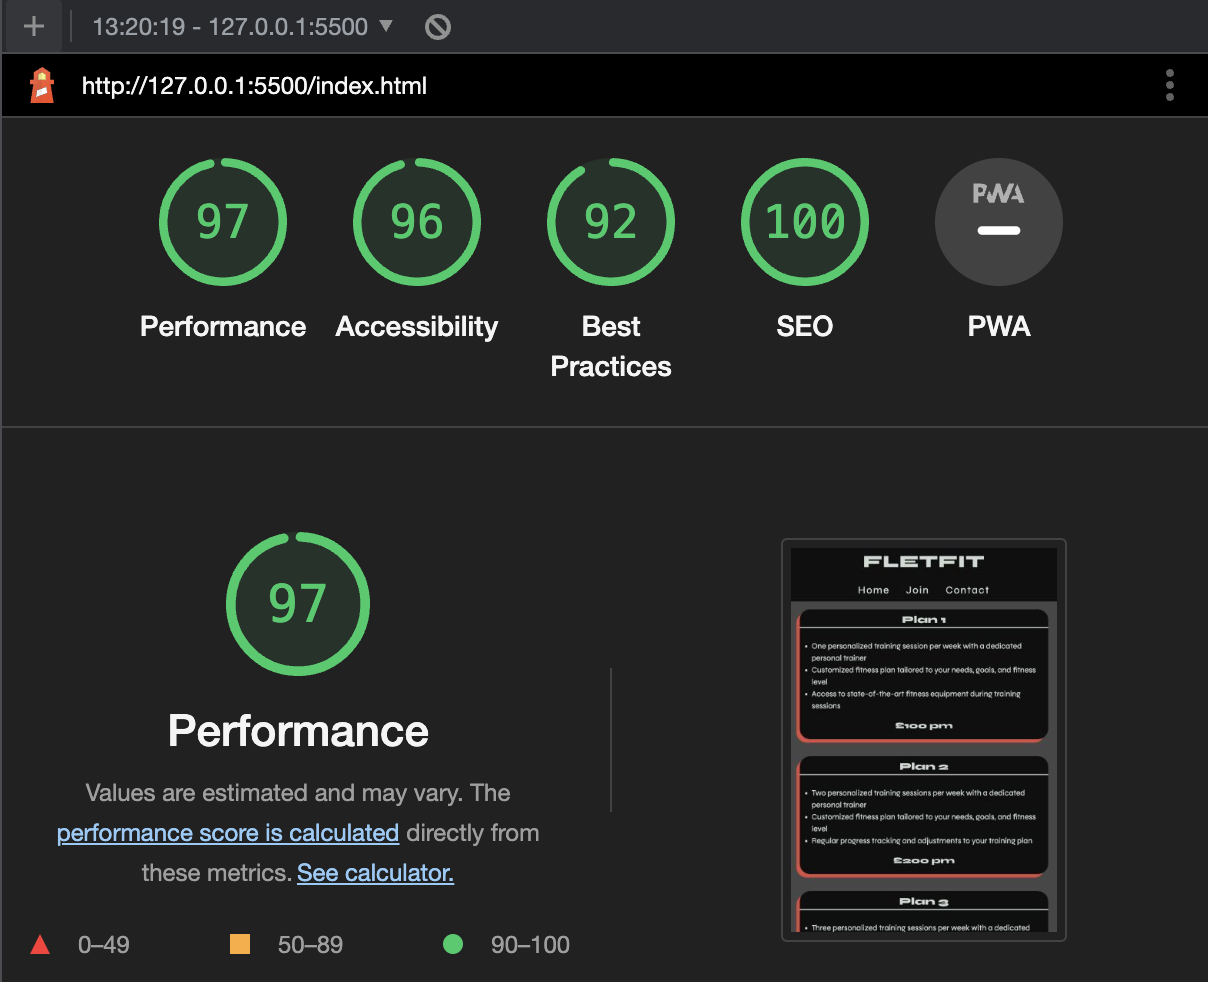
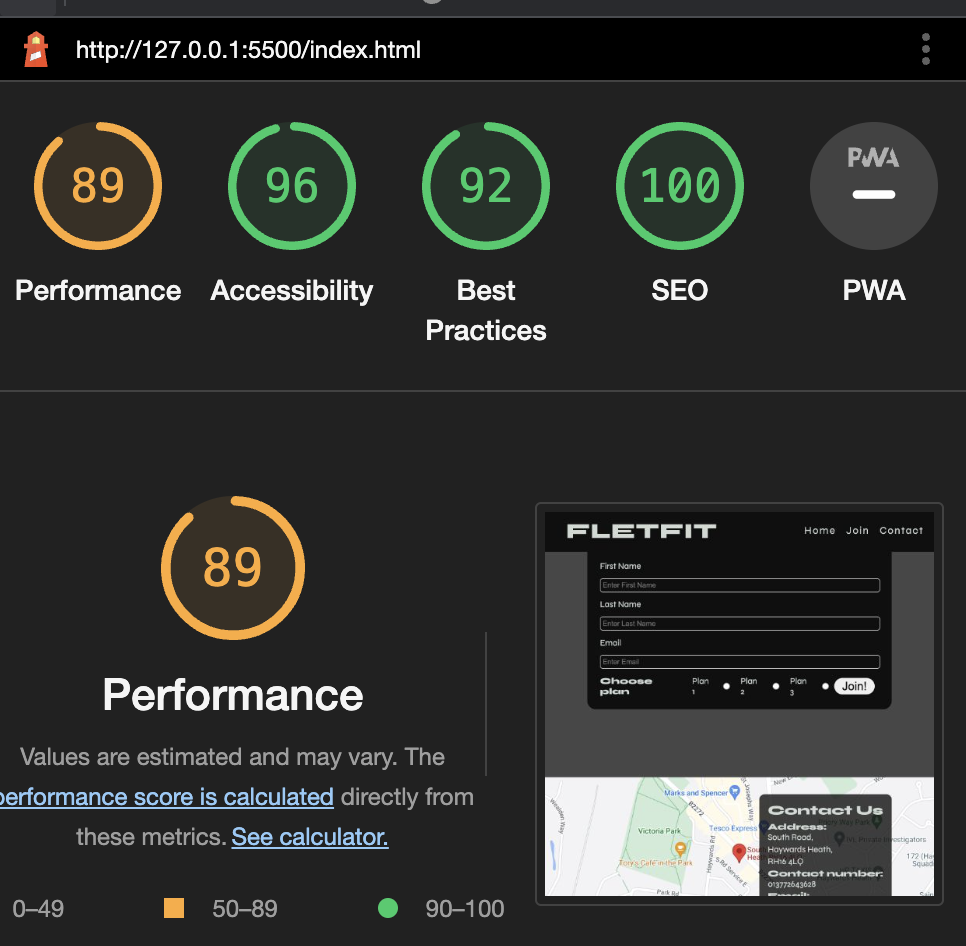
Change lighthouse image in README.md

diff --git a/README.md b/README.md
@@ -115,6 +115,10 @@ The wireframe was created for the overall site using [Figma](https://www.figma.c
 
  I used Lighthouse in the Chrome Developer Tools to test the performance, accessibility, best practices and SEO of the website.
 
+ Suggestions:
+   
+   1. Preload the image used by the LCP element in order to improve your LCP time
+
    ![Lighthouse Score](/assets/images/lighthouse-1.png)
    ![Lighthouse Score](/assets/images/lighthouse-2.png)
 
